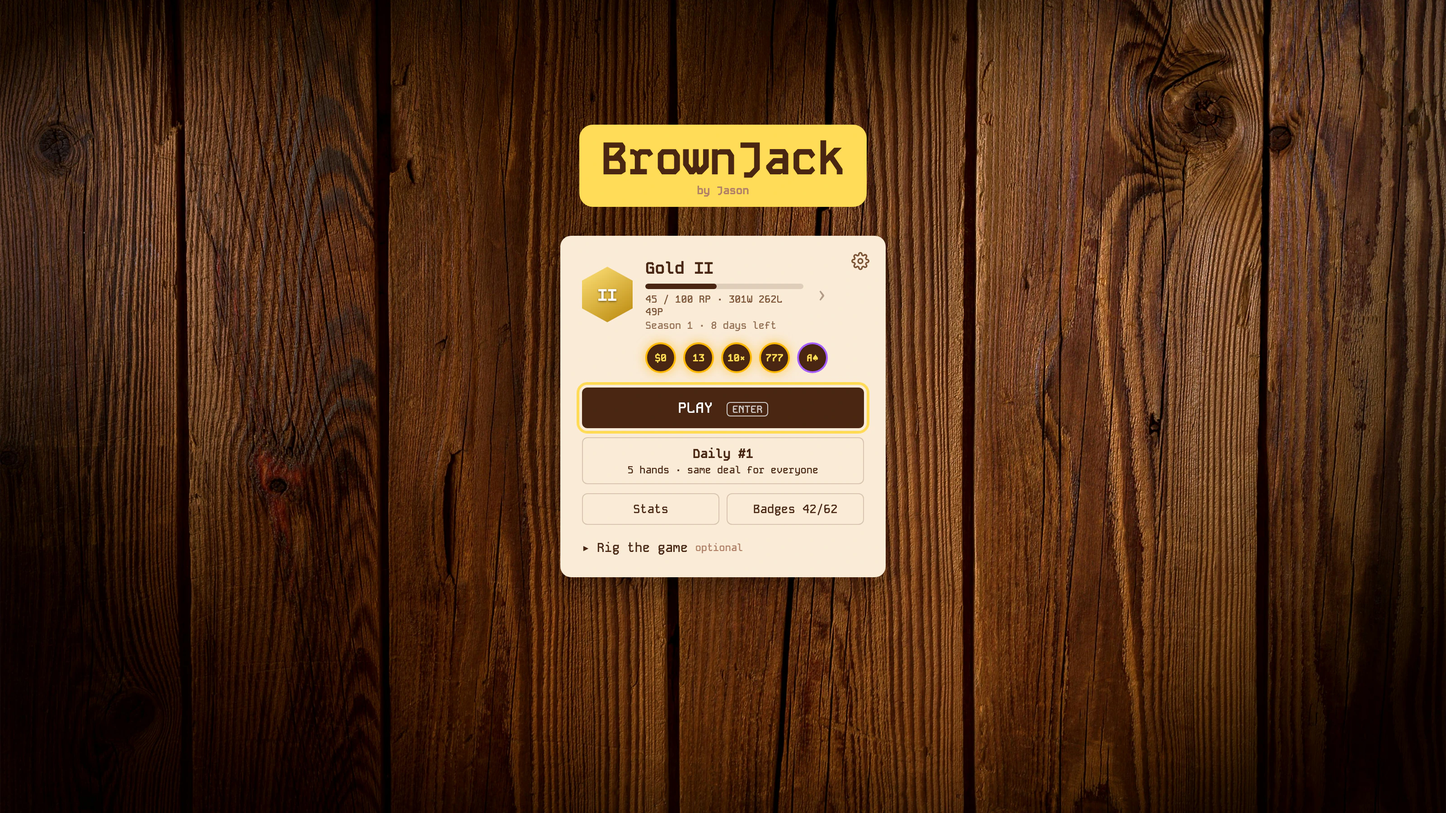
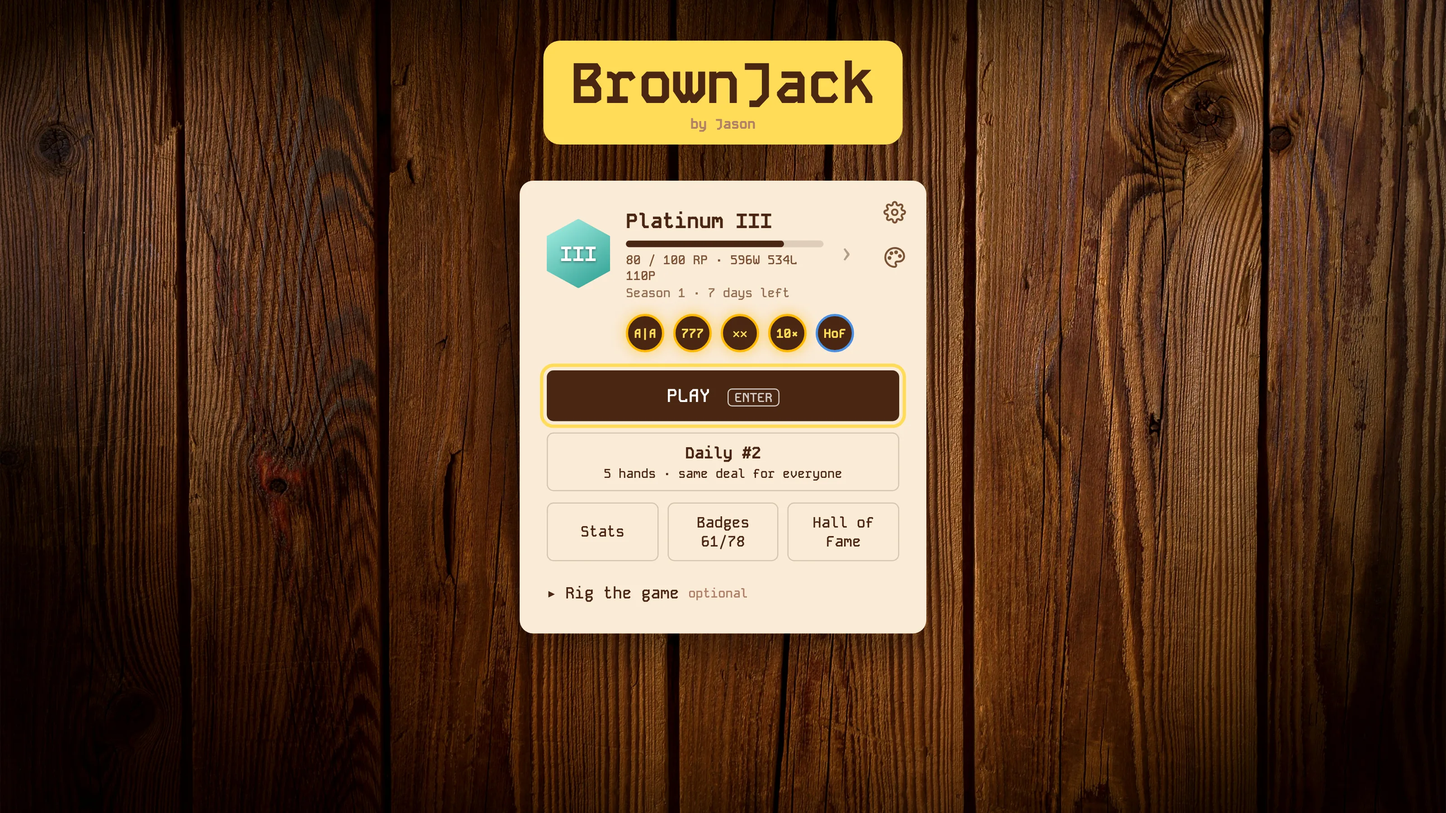
feat(portfolio): refresh BrownJack's page for rarity, sharing and the halls
Ten new 3200px screenshots: the start screen with its showcase and
Appearance icon, a hand in play on Havana with the Double Disaster back, a
Lucky Sevens hand in the rare-hand spotlight, its share image, the Hall of
Fame and Hall of Shame, the badges with the showcase editor, the Epic card
backs in Appearance, the rank roadmap, and the Hall of Legends back
unlocking. The description and stack are updated, and a new reflection
covers how hand rarity came to be measured.

Changed region(s): [[0.3438, 0.0311, 0.6562, 0.8089]]

diff --git a/src/constants/const.js b/src/constants/const.js
@@ -241,7 +241,12 @@ export const PROJECTS = [
       {
         title: "Rewards worth chasing",
         description:
-          "I enjoyed turning progress into things you can see: tables and card backs drawn as SVG, a rank roadmap, collection points that fill toward the next table, and a card back for every Legendary badge, from a hockey mask to a World's Best Boss mug. I learned that a reward feels earned when the player can always see what's next and how close it is.",
+          "I enjoyed turning progress into things you can see: tables and card backs drawn as SVG, a rank roadmap, collection points that fill toward the next table, and a card back for every Epic and Legendary badge, from a hockey mask to a World's Best Boss mug. I learned that a reward feels earned when the player can always see what's next and how close it is.",
+      },
+      {
+        title: "Deciding what makes a hand rare",
+        description:
+          "My first rarity score used the chance of a hand's exact cards, but nearly every hand came out one in tens of thousands, and a blackjack scored like a dull 19. I switched to grading a hand by the rarest thing it did, measured over 20 million simulated hands, and added badges for painful hands so a brutal loss can rank as high as a great win. I learned that a good metric has to match what players actually find remarkable, not just what's easy to compute.",
       },
       {
         title: "Details you feel more than see",
@@ -254,15 +259,26 @@ export const PROJECTS = [
           "I kept the rules, scoring, rewards and save files as small pure modules with their own tests, separate from the page. That made it much easier to add doubles, splits, a six-deck shoe and monthly seasons without breaking what already worked, and to reject tampered or damaged save files.",
       },
     ],
-    desc: "A browser Blackjack game with ranked seasons, 62 badges, collectible tables and card backs, a rank roadmap, a basic-strategy coach, doubles and splits, and a daily challenge with the same deal for everyone.",
-    technologies: ["HTML", "CSS", "JavaScript", "SVG", "Web Audio API", "node:test"],
+    desc: "A browser Blackjack game with ranked seasons, 78 badges, 43 collectible card backs and 17 tables, hands graded D to SSS for rarity and shared as images, a Hall of Fame and a Hall of Shame, a basic-strategy coach, doubles and splits, and a daily challenge with the same deal for everyone.",
+    technologies: ["HTML", "CSS", "JavaScript", "SVG", "Canvas API", "Web Audio API", "node:test"],
     urls: {
       github:
         "https://github.com/jsl1114/jsl1114.github.io/tree/v2/public/projects/brownjack",
       live: "https://jsl1114.github.io/projects/brownjack/game.html",
     },
     image: "brown.webp",
-    screenshots: ["brown1.webp", "brown2.webp", "brown3.webp", "brown4.webp", "brown5.webp", "brown6.webp", "brown7.webp", "brown8.webp"],
+    screenshots: [
+      "brown1.webp",
+      "brown2.webp",
+      "brown3.webp",
+      "brown4.webp",
+      "brown5.webp",
+      "brown6.webp",
+      "brown7.webp",
+      "brown8.webp",
+      "brown9.webp",
+      "brown10.webp",
+    ],
   },
   {
     title: "Inky",
